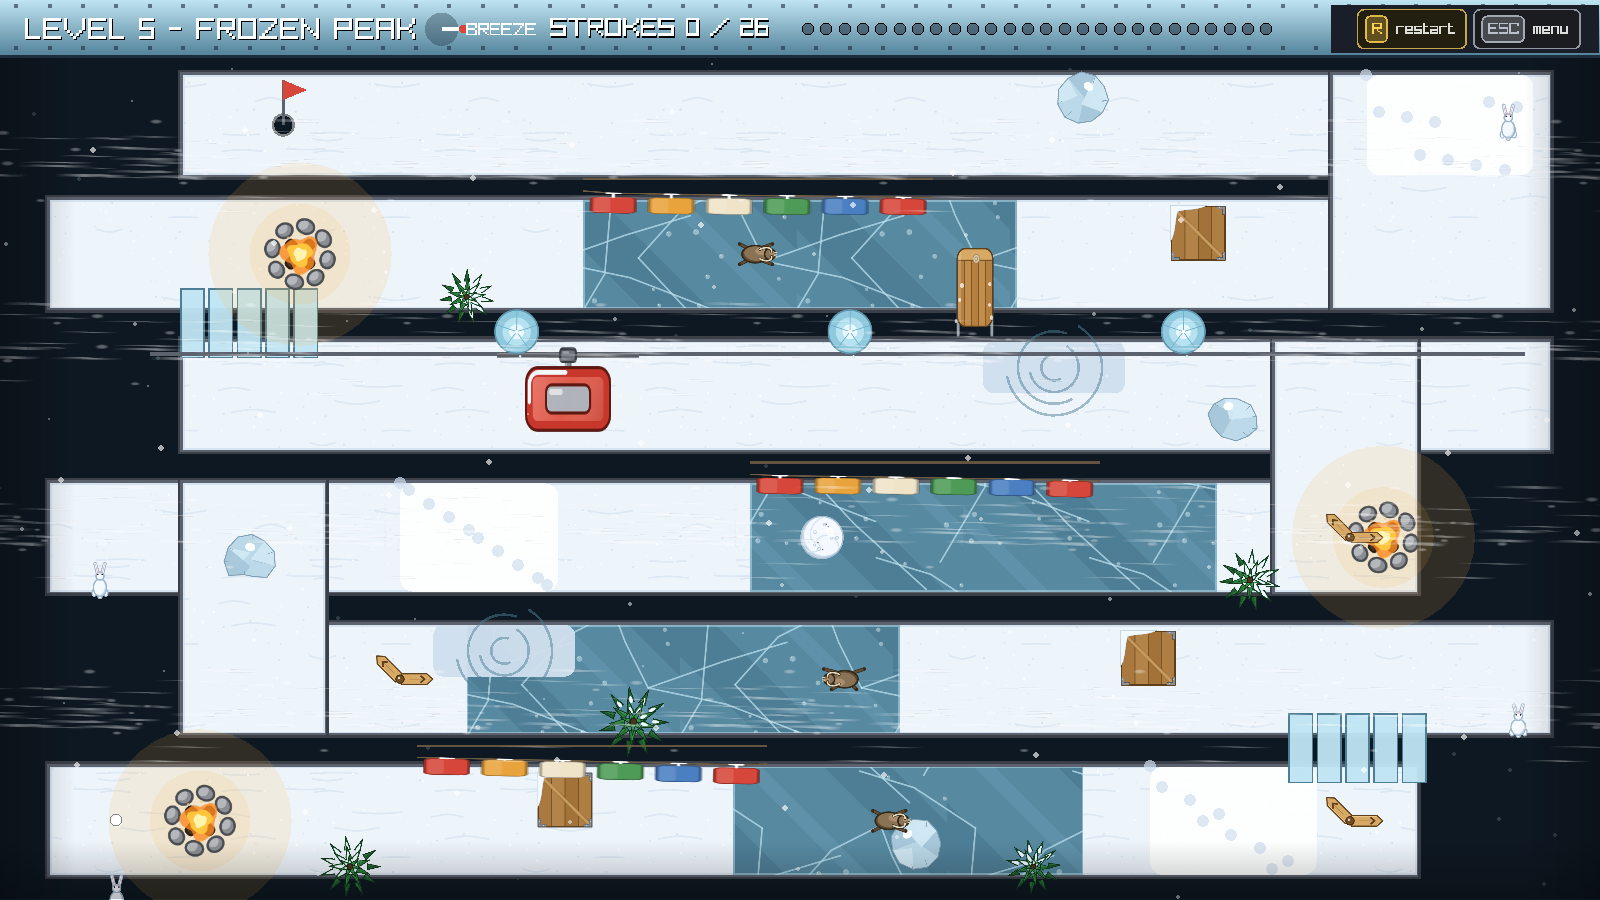
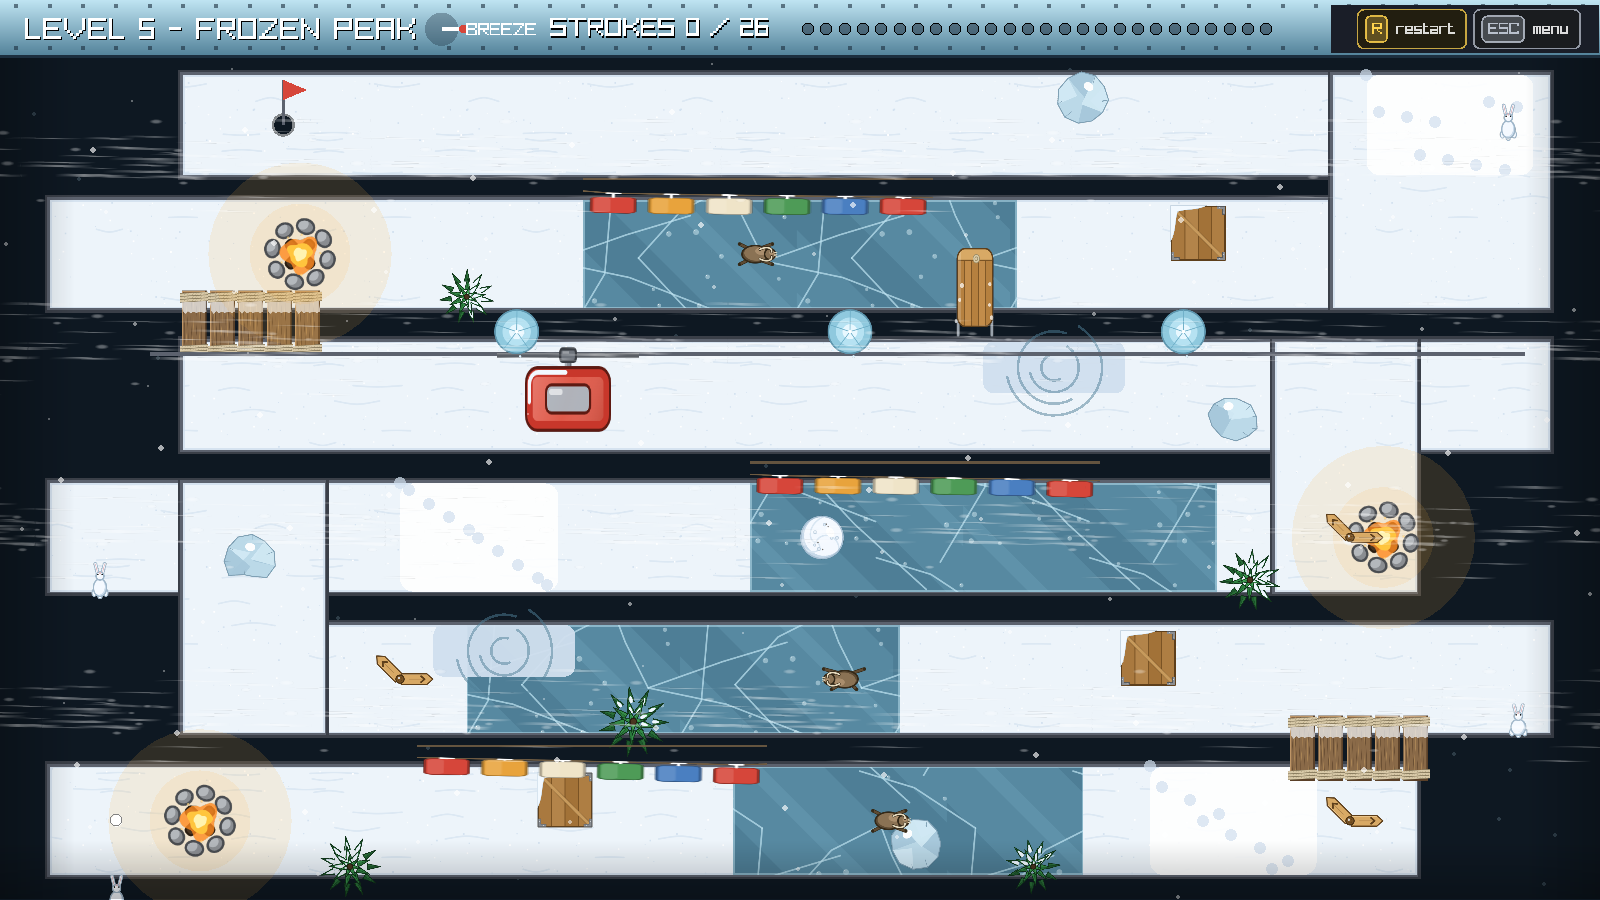
Draw the last six things from pictures instead of from circles
Everything in levels 5 and 7 is a real sprite now.

- magma_eruption: the flood an erupting vent throws out. Four frames of the
  same pool at four sizes, so the frame comes from how far the lava has
  spread and is then scaled so the painted crust edge lands exactly on the
  radius that burns the ball. It was a stack of coloured discs before.
- magma_steam: the blast from a steam jet, drawn three times along the way
  it blows so the cloud goes somewhere.
- magma_catwalk: the iron grating over the lake, sound and tearing open.
- magma_tube: the two ends of the lava tube, one pulling in and one throwing
  out, each turning slowly.
- magma_heart: the basin at the goal, plugged and open. The sprite's hole is
  72 of its 256 px, so it sits over the hole that actually counts.
- frozen_bridge: the planks over the crevasse, sound and split.

Vent reach trimmed from 120 to 100 units so an eruption floods its own
terrace without washing over the one above.

Changed region(s): [[0.7812, 0.7778, 0.9062, 0.8711], [0.0938, 0.3111, 0.2188, 0.4044]]

diff --git a/src/levels/level7_magma_core.c b/src/levels/level7_magma_core.c
@@ -26,6 +26,11 @@ Texture2D l7_rock_texture;
 Texture2D l7_lava_texture;
 Texture2D l7_crust_texture;
 Texture2D l7_vent_texture;
+Texture2D l7_eruption_texture;
+Texture2D l7_steam_texture;
+Texture2D l7_catwalk_texture;
+Texture2D l7_tube_texture;
+Texture2D l7_heart_texture;
 Texture2D l7_geyser_texture;
 Texture2D l7_crystal_texture;
 Texture2D l7_raft_texture;
@@ -198,7 +203,7 @@ void l7_reset_level()
 
     //terrace 3 is the vents: three of them, far apart, with room to go round
     l7_vent_hole = 30*l7_u;
-    l7_vent_reach = 120*l7_u;
+    l7_vent_reach = 100*l7_u;
     l7_vent[0] = l7_make_point(520,455);
     l7_vent[1] = l7_make_point(980,545);
     l7_vent[2] = l7_make_point(1440,455);
@@ -841,22 +846,13 @@ void l7_draw_ground()
             Rectangle r = l7_plank[b][i];
             float shake = 0;
             if (l7_plank_state[b][i]==1) shake = sin(l7_animation_time*70)*3*l7_u;
-            Rectangle shown = {r.x+shake,r.y,r.width-4*l7_u,r.height};
-            //an iron grating: plate, rivets and a hot underside, so it reads as a catwalk
-            DrawRectangleRec(shown,GetColor(0x4A4650FF));
-            DrawRectangleLinesEx(shown,2*l7_u,l7_rock_dark);
-            for (int k=0; k<3; k++)
-            {
-                DrawRectangle(shown.x+4*l7_u,shown.y+8*l7_u+k*(shown.height-16*l7_u)/3,shown.width-8*l7_u,4*l7_u,Fade(l7_rock_dark,0.8));
-            }
-            DrawCircle(shown.x+6*l7_u,shown.y+6*l7_u,2*l7_u,Fade(l7_rock_light,0.9));
-            DrawCircle(shown.x+shown.width-6*l7_u,shown.y+6*l7_u,2*l7_u,Fade(l7_rock_light,0.9));
-            DrawRectangleGradientV(shown.x,shown.y+shown.height-7*l7_u,shown.width,7*l7_u,BLANK,Fade(l7_lava,0.55));
-            if (l7_plank_state[b][i]==1)
-            {
-                DrawLineEx((Vector2){shown.x+shown.width/2,shown.y},(Vector2){shown.x+shown.width/3,shown.y+shown.height},3*l7_u,Fade(l7_lava_hot,0.95));
-                DrawRectangleLinesEx(shown,3*l7_u,Fade(l7_ember,0.8));
-            }
+            Rectangle shown = {r.x+shake,r.y,r.width,r.height};
+            //frame 1 is the sound grating, frame 2 the one that is already tearing open
+            int frame = (l7_plank_state[b][i]==1) ? 1 : 0;
+            Rectangle source = {frame*128,0,128,256};
+            Vector2 no_plank_origin = {0,0};
+            DrawTexturePro(l7_catwalk_texture,source,shown,no_plank_origin,0,WHITE);
+            if (l7_plank_state[b][i]==1) DrawRectangleLinesEx(shown,2*l7_u,Fade(l7_ember,0.7));
         }
     }
 
@@ -937,17 +933,22 @@ void l7_draw_obstacles()
         }
         if (l7_steam_clock[i]<1.4)
         {
+            //one burst drawn three times along the way it blows, so the cloud reads as
+            //going somewhere. The four frames are the same puffs expanding.
             float strength = 1 - l7_steam_clock[i]/1.4;
             Vector2 way = Vector2Normalize(l7_steam_push[i]);
             Vector2 middle = {r.x+r.width/2,r.y+r.height/2};
-            for (int k=0; k<9; k++)
+            for (int k=0; k<3; k++)
             {
-                float t = fmod(l7_animation_time*1.8 + k*0.11,1.0);
-                Vector2 puff = Vector2Add(middle,Vector2Scale(way,t*230*l7_u));
-                float side = sin(t*6 + k)*14*l7_u;
-                puff.x = puff.x + way.y*side;
-                puff.y = puff.y - way.x*side;
-                DrawCircleV(puff,(14+t*30)*l7_u,Fade(l7_steam,0.35*strength*(1-t)));
+                float t = fmod(l7_animation_time*1.4 + k*0.33,1.0);
+                int frame = t*4;
+                if (frame>3) frame = 3;
+                Vector2 puff = Vector2Add(middle,Vector2Scale(way,t*210*l7_u));
+                float size = (130 + t*150)*l7_u;
+                Rectangle source = {frame*256,0,256,256};
+                Rectangle dest = {puff.x,puff.y,size,size};
+                Vector2 origin = {size/2,size/2};
+                DrawTexturePro(l7_steam_texture,source,dest,origin,t*40+k*25,Fade(WHITE,0.9*strength*(1-t*0.7)));
             }
         }
         else if (l7_steam_clock[i]>3.4 && fmod(l7_animation_time*8,2)<1.2)
@@ -959,23 +960,21 @@ void l7_draw_obstacles()
 
     //the lava tube: a pipe mouth in the rock at one end, and where it spits you out at
     //the other. The arrow says which way you leave.
-    DrawCircleV(l7_tube_in,44*l7_u,l7_rock_dark);
-    DrawRing(l7_tube_in,36*l7_u,44*l7_u,0,360,28,l7_rock_light);
-    DrawCircleV(l7_tube_in,34*l7_u,BLACK);
-    DrawRing(l7_tube_in,24*l7_u,32*l7_u,l7_animation_time*110,l7_animation_time*110+250,24,Fade(l7_lava,0.9));
-    for (int k=0; k<5; k++)
-    {
-        float a = l7_animation_time*2.6 + k*1.25;
-        float r = 10*l7_u + fmod(l7_animation_time*40*l7_u + k*18*l7_u,24*l7_u);
-        DrawCircleV((Vector2){l7_tube_in.x+cos(a)*r,l7_tube_in.y+sin(a)*r},3*l7_u,Fade(l7_ember,0.8));
-    }
+    //frame 1 is the mouth that swallows, frame 2 the one that spits you back out. The
+    //ring of stone is 112 of the sprite's 128 px, so this size puts the stonework around
+    //the circle that actually catches the ball.
+    float mouth = 36*l7_u*2*128/112;
+    Rectangle tube_in_source = {0,0,256,256};
+    Rectangle tube_in_dest = {l7_tube_in.x,l7_tube_in.y,mouth,mouth};
+    Vector2 tube_origin = {mouth/2,mouth/2};
+    //both turn, slowly, so the swirl reads as pulling in and throwing out
+    DrawTexturePro(l7_tube_texture,tube_in_source,tube_in_dest,tube_origin,l7_animation_time*30,WHITE);
 
     float facing = l7_tube_facing*DEG2RAD;
-    Vector2 nose = {l7_tube_out.x+cos(facing)*60*l7_u,l7_tube_out.y+sin(facing)*60*l7_u};
-    DrawCircleV(l7_tube_out,40*l7_u,l7_rock_dark);
-    DrawRing(l7_tube_out,32*l7_u,40*l7_u,0,360,28,l7_rock_light);
-    DrawCircleV(l7_tube_out,30*l7_u,Fade(l7_lava,0.85));
-    DrawCircleV(l7_tube_out,18*l7_u,Fade(l7_lava_hot,0.9));
+    Vector2 nose = {l7_tube_out.x+cos(facing)*58*l7_u,l7_tube_out.y+sin(facing)*58*l7_u};
+    Rectangle tube_out_source = {256,0,256,256};
+    Rectangle tube_out_dest = {l7_tube_out.x,l7_tube_out.y,mouth,mouth};
+    DrawTexturePro(l7_tube_texture,tube_out_source,tube_out_dest,tube_origin,-l7_animation_time*40,WHITE);
     DrawPoly(nose,3,18*l7_u,l7_tube_facing,Fade(l7_ember,0.9));
     DrawPolyLines(nose,3,18*l7_u,l7_tube_facing,l7_lava_hot);
 
@@ -987,28 +986,20 @@ void l7_draw_obstacles()
         float flood = l7_vent_flood(i);
         if (flood>0)
         {
+            //the four frames are one pool at four sizes, 110, 170, 220 and 248 of their
+            //256, so the frame comes from how far the flood has spread and is then scaled
+            //so the painted crust edge sits on the edge that actually burns.
+            float pool[4] = {110,170,220,248};
             float heat = flood/l7_vent_reach;
-            DrawCircleGradient(l7_vent[i],flood*1.35,Fade(l7_lava,0.30*heat),BLANK);
-            DrawCircleV(l7_vent[i],flood,Fade(GetColor(0xD1541FFF),0.92));
-            DrawCircleV(l7_vent[i],flood*0.74,Fade(l7_lava,0.95));
-            DrawCircleV(l7_vent[i],flood*0.42,Fade(l7_lava_hot,0.95));
-            //a broken crust edge all the way round
-            for (int k=0; k<18; k++)
-            {
-                float a = k*0.349 + l7_animation_time*0.6;
-                float wobble = flood*(0.94 + 0.08*sin(k*2.1 + l7_animation_time*3));
-                Vector2 edge = {l7_vent[i].x + cos(a)*wobble,l7_vent[i].y + sin(a)*wobble};
-                DrawCircleV(edge,flood*0.13,Fade(GetColor(0x8A2E12FF),0.9));
-                DrawCircleV(edge,flood*0.07,Fade(l7_ember,0.8));
-            }
-            //and blobs thrown clear of it
-            for (int k=0; k<7; k++)
-            {
-                float a = k*0.9 + i*1.3;
-                float out = flood*(1.15 + 0.25*sin(l7_animation_time*2 + k));
-                Vector2 blob = {l7_vent[i].x + cos(a)*out,l7_vent[i].y + sin(a)*out};
-                DrawCircleV(blob,(7-k%3)*l7_u,Fade(l7_ember,0.75*heat));
-            }
+            int frame = heat*4;
+            if (frame>3) frame = 3;
+            if (frame<0) frame = 0;
+            float size = flood*2*256/pool[frame];
+            Rectangle source = {frame*512,0,512,512};
+            Rectangle dest = {l7_vent[i].x,l7_vent[i].y,size,size};
+            Vector2 origin = {size/2,size/2};
+            DrawCircleGradient(l7_vent[i],flood*1.4,Fade(l7_lava,0.25*heat),BLANK);
+            DrawTexturePro(l7_eruption_texture,source,dest,origin,i*37,WHITE);
         }
         int frame = 0;
         if (l7_vent_live[i]==1 && l7_vent_stage[i]<1.5) frame = 1;
@@ -1091,18 +1082,15 @@ void l7_draw_obstacles()
 void l7_draw_ball_and_pot()
 {
     //the heart: shut while the vent is working, open afterwards
-    if (l7_heart_open>0)
-    {
-        DrawCircleV(l7_pot,l7_radius_pot+14*l7_u,Fade(l7_lava_hot,0.3));
-        DrawCircleV(l7_pot,l7_radius_pot+3*l7_u,Fade(BLACK,0.7));
-        DrawCircleV(l7_pot,l7_radius_pot,BLACK);
-        DrawCircleLines(l7_pot.x,l7_pot.y,l7_radius_pot+6*l7_u,l7_lava_hot);
-    }
-    else
-    {
-        DrawCircleV(l7_pot,l7_radius_pot+10*l7_u,Fade(l7_lava,0.85));
-        DrawCircleV(l7_pot,l7_radius_pot,l7_lava_hot);
-    }
+    //the basin: frame 1 is plugged, frame 2 is the hole you have to land in. The hole is
+    //72 of the sprite's 256 px, so this size puts it over the hole that counts.
+    int heart_frame = (l7_heart_open>0) ? 1 : 0;
+    float basin = l7_radius_pot*2*256/72;
+    Rectangle heart_source = {heart_frame*512,0,512,512};
+    Rectangle heart_dest = {l7_pot.x,l7_pot.y,basin,basin};
+    Vector2 heart_origin = {basin/2,basin/2};
+    if (l7_heart_open>0) DrawCircleGradient(l7_pot,basin*0.75,Fade(l7_lava,0.35),BLANK);
+    DrawTexturePro(l7_heart_texture,heart_source,heart_dest,heart_origin,0,WHITE);
 
     DrawCircleV(l7_ball,l7_radius_ball,WHITE);
     DrawCircleLines(l7_ball.x,l7_ball.y,l7_radius_ball,GRAY);
@@ -1262,6 +1250,11 @@ void l7_start(int screen_width, int screen_height)
     l7_lava_texture = LoadTexture("assets/magma/magma_lava_tile.png");
     l7_crust_texture = LoadTexture("assets/magma/magma_crust.png");
     l7_vent_texture = LoadTexture("assets/magma/magma_vent.png");
+    l7_eruption_texture = LoadTexture("assets/magma/magma_eruption.png");
+    l7_steam_texture = LoadTexture("assets/magma/magma_steam.png");
+    l7_catwalk_texture = LoadTexture("assets/magma/magma_catwalk.png");
+    l7_tube_texture = LoadTexture("assets/magma/magma_tube.png");
+    l7_heart_texture = LoadTexture("assets/magma/magma_heart.png");
     l7_geyser_texture = LoadTexture("assets/magma/magma_geyser.png");
     l7_crystal_texture = LoadTexture("assets/magma/magma_crystal.png");
     l7_raft_texture = LoadTexture("assets/magma/magma_raft.png");
@@ -1276,6 +1269,11 @@ void l7_start(int screen_width, int screen_height)
     SetTextureFilter(l7_lava_texture,TEXTURE_FILTER_BILINEAR);
     SetTextureFilter(l7_crust_texture,TEXTURE_FILTER_BILINEAR);
     SetTextureFilter(l7_vent_texture,TEXTURE_FILTER_BILINEAR);
+    SetTextureFilter(l7_eruption_texture,TEXTURE_FILTER_BILINEAR);
+    SetTextureFilter(l7_steam_texture,TEXTURE_FILTER_BILINEAR);
+    SetTextureFilter(l7_catwalk_texture,TEXTURE_FILTER_BILINEAR);
+    SetTextureFilter(l7_tube_texture,TEXTURE_FILTER_BILINEAR);
+    SetTextureFilter(l7_heart_texture,TEXTURE_FILTER_BILINEAR);
     SetTextureFilter(l7_geyser_texture,TEXTURE_FILTER_BILINEAR);
     SetTextureFilter(l7_crystal_texture,TEXTURE_FILTER_BILINEAR);
     SetTextureFilter(l7_raft_texture,TEXTURE_FILTER_BILINEAR);
@@ -1344,6 +1342,11 @@ void l7_unload()
     UnloadTexture(l7_lava_texture);
     UnloadTexture(l7_crust_texture);
     UnloadTexture(l7_vent_texture);
+    UnloadTexture(l7_eruption_texture);
+    UnloadTexture(l7_steam_texture);
+    UnloadTexture(l7_catwalk_texture);
+    UnloadTexture(l7_tube_texture);
+    UnloadTexture(l7_heart_texture);
     UnloadTexture(l7_geyser_texture);
     UnloadTexture(l7_crystal_texture);
     UnloadTexture(l7_raft_texture);

diff --git a/src/levels/level5_frozen_peak.c b/src/levels/level5_frozen_peak.c
@@ -29,6 +29,7 @@ Texture2D l5_ice_texture;
 Texture2D l5_pine_texture;
 Texture2D l5_snowball_texture;
 Texture2D l5_gondola_texture;
+Texture2D l5_bridge_texture;
 Texture2D l5_campfire_texture;
 Texture2D l5_icicle_texture;
 Texture2D l5_ibex_texture;
@@ -908,13 +909,13 @@ void l5_draw_ground()
             Rectangle r = l5_plank[b][i];
             float shake = 0;
             if (l5_plank_state[b][i]==1) shake = sin(l5_animation_time*60)*3*l5_u;
-            Rectangle shown = {r.x+shake,r.y,r.width-4*l5_u,r.height};
-            DrawRectangleRec(shown,Fade(l5_ice_light,0.95));
-            DrawRectangleLinesEx(shown,2*l5_u,l5_ice);
-            if (l5_plank_state[b][i]==1)
-            {
-                DrawLineEx((Vector2){shown.x+shown.width/2,shown.y},(Vector2){shown.x+shown.width/3,shown.y+shown.height},3*l5_u,l5_crevasse);
-            }
+            Rectangle shown = {r.x+shake,r.y,r.width,r.height};
+            //frame 1 is the sound plank, frame 2 the one that has already split
+            int frame = (l5_plank_state[b][i]==1) ? 1 : 0;
+            Rectangle source = {frame*128,0,128,256};
+            Vector2 no_plank_origin = {0,0};
+            DrawTexturePro(l5_bridge_texture,source,shown,no_plank_origin,0,WHITE);
+            if (l5_plank_state[b][i]==1) DrawRectangleLinesEx(shown,2*l5_u,Fade(l5_crevasse,0.7));
         }
     }
 }
@@ -1238,6 +1239,7 @@ void l5_start(int screen_width, int screen_height)
     l5_pine_texture = LoadTexture("assets/frozen/frozen_pine.png");
     l5_snowball_texture = LoadTexture("assets/frozen/frozen_snowball.png");
     l5_gondola_texture = LoadTexture("assets/frozen/frozen_gondola.png");
+    l5_bridge_texture = LoadTexture("assets/frozen/frozen_bridge.png");
     l5_campfire_texture = LoadTexture("assets/frozen/frozen_campfire.png");
     l5_icicle_texture = LoadTexture("assets/frozen/frozen_icicle.png");
     l5_ibex_texture = LoadTexture("assets/frozen/frozen_ibex.png");
@@ -1255,6 +1257,7 @@ void l5_start(int screen_width, int screen_height)
     SetTextureFilter(l5_pine_texture,TEXTURE_FILTER_BILINEAR);
     SetTextureFilter(l5_snowball_texture,TEXTURE_FILTER_BILINEAR);
     SetTextureFilter(l5_gondola_texture,TEXTURE_FILTER_BILINEAR);
+    SetTextureFilter(l5_bridge_texture,TEXTURE_FILTER_BILINEAR);
     SetTextureFilter(l5_campfire_texture,TEXTURE_FILTER_BILINEAR);
     SetTextureFilter(l5_icicle_texture,TEXTURE_FILTER_BILINEAR);
     SetTextureFilter(l5_ibex_texture,TEXTURE_FILTER_BILINEAR);
@@ -1332,6 +1335,7 @@ void l5_unload()
     UnloadTexture(l5_pine_texture);
     UnloadTexture(l5_snowball_texture);
     UnloadTexture(l5_gondola_texture);
+    UnloadTexture(l5_bridge_texture);
     UnloadTexture(l5_campfire_texture);
     UnloadTexture(l5_icicle_texture);
     UnloadTexture(l5_ibex_texture);

diff --git a/docs/SPRITE-PROMPTS-EXTRA.md b/docs/SPRITE-PROMPTS-EXTRA.md
@@ -8,6 +8,8 @@ Same rules as `SPRITE-PROMPTS.md`: paste the global rules block once, then one p
 artboard, export at 2x, save under the exact filename. Nothing here replaces a file that
 already exists, so generating them cannot break anything that is already working.
 
+**All six are generated and wired in (2 October 2026). Kept here as the record of what was asked for.**
+
 | # | File | Folder | Artboard (1x) | Frames | What it replaces |
 |---|---|---|---|---|---|
 | 1 | `magma_eruption.png` | `assets/magma/` | 1024×256 | 4 | the lava flooding out of a vent |
